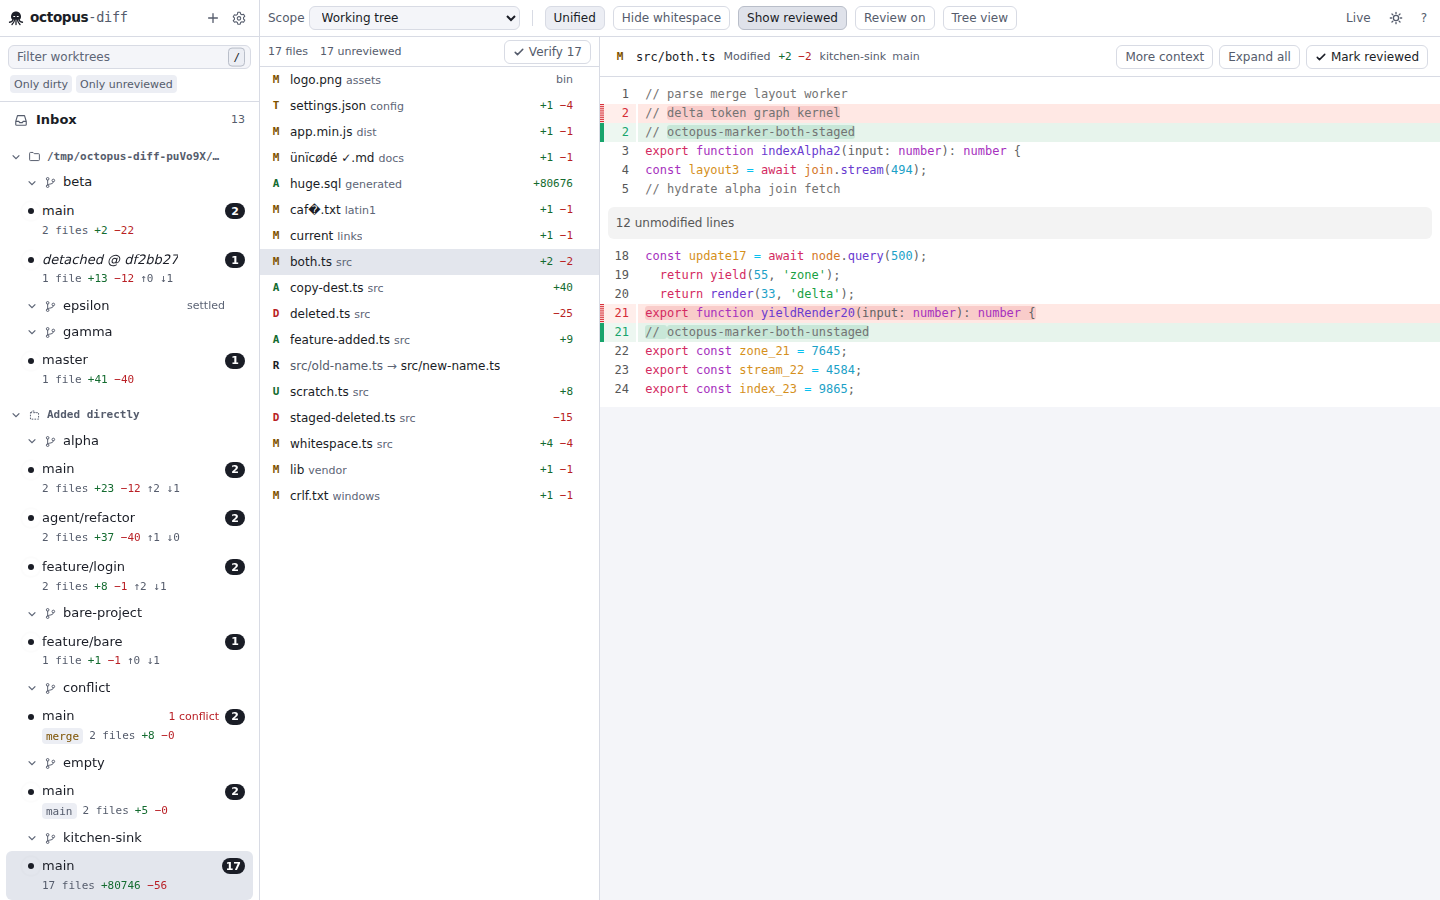
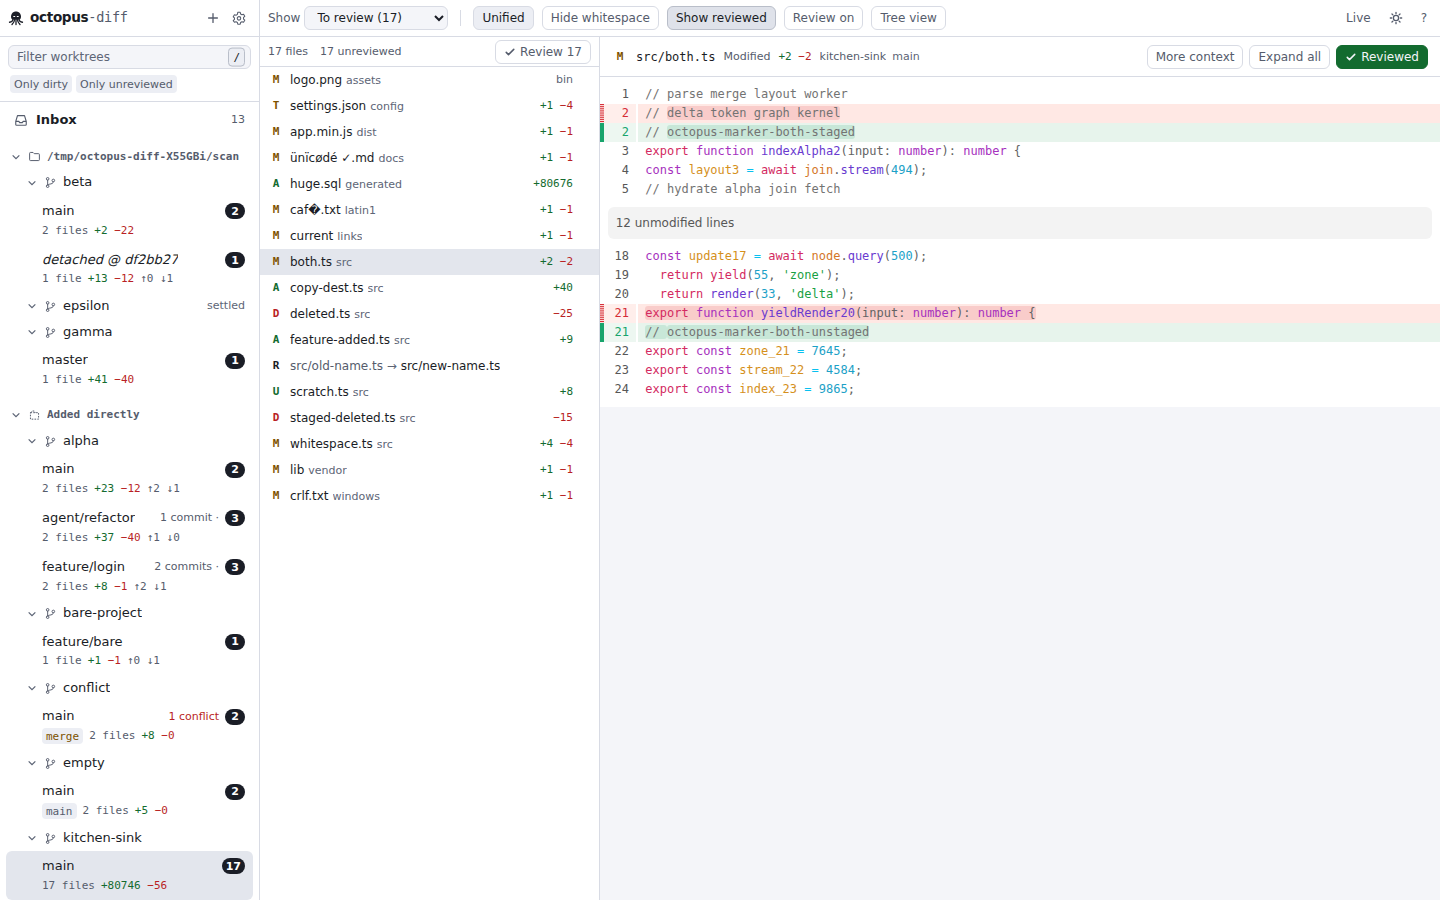
docs: status flow report; fresh README screenshots (To review default, N commits on rows)

diff --git a/docs/reports/status-flow.md b/docs/reports/status-flow.md
@@ -1,0 +1,107 @@
+# status-flow report
+
+Lead session, branch `feat/status-flow` from `main` at `984f2ad`, 2026-11-09. Design: `docs/STATUS-FLOW.md`
+(agreed with the user). Decisions: `docs/DECISIONS.md` "Status flow v2" #81–#100. The git-core primitives were
+delegated to a child session on `status-flow/git-core` and cherry-picked (#97).
+
+## Shipped
+
+**Step 1 — stages, vocabulary, no pulse (web).**
+- `apps/web/src/lib/model.ts`: `stageOf()` / `placeOf()` (`blocked | review | reviewed | inPR | merged | closed |
+  off`), `rowState()` on top; rows carry `data-stage`, `data-unreviewed`, `data-commits`. The sidebar's status
+  comes from a fixed source (`summary.review`, else a fixed `working` inbox), never from the toolbar scope
+  (`state/model.tsx` `SIDEBAR_STATUS_SCOPE`).
+- One verb: "Reviewed" / "Review all (⇧R)" / "Mark all reviewed"; no UI string contains "verif".
+- Settle → "Hide until it changes" / "Show again" / "Keep under its project" (same per-device mechanics).
+- The activity pulse is gone (`.od-pulse`, keyframes, `isRecentlyActive`, `useClock`, the indent it needed).
+- Toolbar scope is a filter with counts: `To review (n) · All on branch (n) · Uncommitted (n) · Staged · Unstaged ·
+  Commit…`.
+- `pnpm dev:mock` import cycle fixed (`state/diffContext.ts`).
+
+**Step 2 — bookmarks.**
+- Contracts (`87e3889`): scope `review { base? }`, `branch.includeWorking`, `WorktreeSummary.review`,
+  `PUT /api/review/bookmark`, event `review.bookmark`, bulk `advanceBookmarks`, optional
+  `GitCore.readReviewRange / describeCommits / rangePatchId`.
+- git-core (`667286c`, `15253d9`): the review scope (working tree vs a base commit), All on branch, the review
+  range, commit details (patch-id + touched paths, `--cc` for merges), range patch-id; `patch-id --stable`
+  allowlisted; stdin only for `check-attr --stdin` and `patch-id`.
+- Daemon (`dd18bad`): migration v3 (`bookmarks`, `reviewed_commits`), `review-state.ts`, review state per worktree
+  in `core.ts` (cached per state hash + review version, computed before `worktree.changed`), `scope=review`
+  resolution in files / diff / inbox / bulk, `moveBookmark` + undo, `ReviewControls.setBookmark`, bulk
+  `advanceBookmarks`.
+- Web (`75cebce`): To review is the default scope (falls back to Uncommitted on older daemons), rows say
+  `N commits ·`, Review all in To review moves the bookmark (undo restores it), All on branch includes the working
+  tree, hover card "Reviewed: up to abc1234 · history rewritten"; the mock backend has an opt-in `statusFlow` mode.
+
+**Step 3 — no double review (`68df919`).** Marks keyed by `(project, path, patchHash)` whatever the scope kind (no
+migration; old rows readable). A bookmark move to HEAD records each commit's id and patch-id plus the range's
+patch-id. In a range, commits reviewed by id or patch-id, clean merges and empty commits bring nothing; files only
+they touched show as reviewed. Fast-forward, merge commit, squash, rebase and reset all skip reviewed content;
+conflict resolutions still show.
+
+**Step 4 — forge stages (`473330e`).** In PR (open, non-draft, nothing new; `#42 · checks ✓`
+/ `changes requested`) under its project; Merged / Closed for this HEAD with nothing uncommitted to the shelf;
+merged with uncommitted work stays out (`merged · 2 files`); drafts are Reviewed; forges off → never applies.
+
+## Verification
+
+All from the worktree root, on Node 26 / pnpm 12 / git 2.53.
+
+| When | Command | Result |
+|---|---|---|
+| step 1 (`88c701a`) | `pnpm check` | green: contracts 81, forge 94 (+4 skipped), git-core 144, fixtures 48, web 173, daemon 173, e2e unit 5, cli 139 |
+| step 1 | `pnpm test:e2e` (playwright, full) | 70 passed, 3 failed (two in the new spec: locator/console guard; one in spec 12: the pill's title helper). Fixed, then specs 12 + 15 re-run: 7/7 passed |
+| step 2 (`75cebce`) | `pnpm check` | green: contracts 83, git-core 170, web 174, daemon 180, … |
+| step 2 | `pnpm test:e2e` (full) | 68 passed, 6 failed: scope/title specs written against the old meaning (title = uncommitted count, All on branch = committed only) and a worktree lookup in the new spec. Specs updated (#94); the six specs re-run: 26 passed, 1 failed (`n` in spec 12 needs To review), fixed, spec 12: 4/4 |
+| step 3 (`68df919`, step-4 files set aside) | `pnpm check` | green after updating two fake-git-core tests that asserted per-scope-kind keys: daemon 187, web 174 |
+| step 4 (`473330e`) | `pnpm check` | green: contracts 83, forge 94 (+4 skipped), git-core 170, fixtures 48, web 175, daemon 187, e2e unit 5, cli 139 |
+| final | `pnpm test:e2e` (full, 15 specs) | **74 passed, 0 failed (2.9 min)** |
+| final | `pnpm --filter @octopus-diff/e2e screenshots` | regenerated inbox, diff split/unified, folder picker, palette browse, help (light + dark) |
+
+New tests: `apps/web/test/model.test.ts` "stages" (every row of the §2.2 table incl. forge stages, hide/show,
+wording, no scope input), `ux.test.tsx` "switching the toolbar scope never moves a sidebar row" and "status flow:
+To review is the default …"; `apps/daemon/test/status-flow.real-git.test.ts` (11 tests: bookmark init on main and
+branches, commit-then-already-reviewed, Review all + undo + PUT validation, history rewritten + restart, marks
+across scopes, fast-forward, merge commit, squash, rebase, reset, conflict resolution); `review-units.test.ts`
+(store v3, keys, coverage); git-core `test/review.test.ts` (23 tests) and the read-only proof extended to the new
+reads; contracts schema tests; e2e `15-ui-status-flow.spec.ts` (acceptance 1, 2, 3 ff + squash, 5, 6). The
+read-only proof (git-core `readonly.test.ts` and the e2e global teardown) passes.
+
+## Decisions
+
+DECISIONS #81–#100. The main ones: sidebar fallback source is a fixed `working` inbox, not branch + working (#81);
+Reviewed with no PR sits in the shelf, the plan's default (#82); the review scope is one combined patch per file,
+so committing a reviewed file keeps its mark and there are no section headers (#89); To review means unreviewed
+files, commits count through their files (#92); Review all sends no `paths` in To review (#93); default scope
+`review`, e2e helper seeds `working` (#94); marks are scope-independent without a migration (#95); reviewed commits
+and the range patch-id (#96); forge stage order (#98); PLAN updated (#100).
+
+## Contract changes
+
+One `contracts:` commit (`87e3889`), additive only, DECISIONS #88: `DiffScope` kind `review`, `branch.includeWorking`,
+`scope`/`base`/`working` query fields, `scopeKey` forms, `WorktreeReviewSchema` + `WorktreeSummary.review?`,
+`SetBookmarkRequest/Response` + route `setBookmark` + client method, `ReviewBookmarkEvent`,
+`BulkReviewRequest.advanceBookmarks?`, `BulkReviewResponse.bookmarks?`, optional `GitCore` methods and their types.
+Nothing renamed or removed; `ReviewRequest.scopeKind` keeps its meaning as "where the mark was made".
+
+## Dependencies
+
+None added or removed; `pnpm credits:check` passes inside `pnpm lint`.
+
+## Known gaps
+
+- No e2e for In PR / Merged (spec 14's fake `gh` serves open requests only); unit-tested in `model.test.ts`.
+- No "commits / uncommitted" section headers in To review (#89).
+- No automatic bookmark advance when a whole range is already reviewed; a PUT to a non-HEAD commit records no
+  commits (#96, #99).
+- A range over 500 commits counts every file (coverage unknown).
+- In the review scope with an older base, an untracked file at a path that differs from the base is listed once,
+  as the tracked change (git-core, #97).
+- `03-scopes` "the scope selector switches the file list" was flaky on `main` before this round (#70).
+
+## Notes for integration
+
+- Fast-forwards onto `main` (no `main` movement since `984f2ad` at the time of writing; see the end of this file).
+- The state database migrates to v3 on first start; older daemons refuse a v3 database (as for v2).
+- The web works against older daemons: no `summary.review` → fixed working inbox, To review disabled.
+- e2e: `AppPage.open` seeds `defaultScope: 'working'`; specs that need To review pass prefs explicitly.
